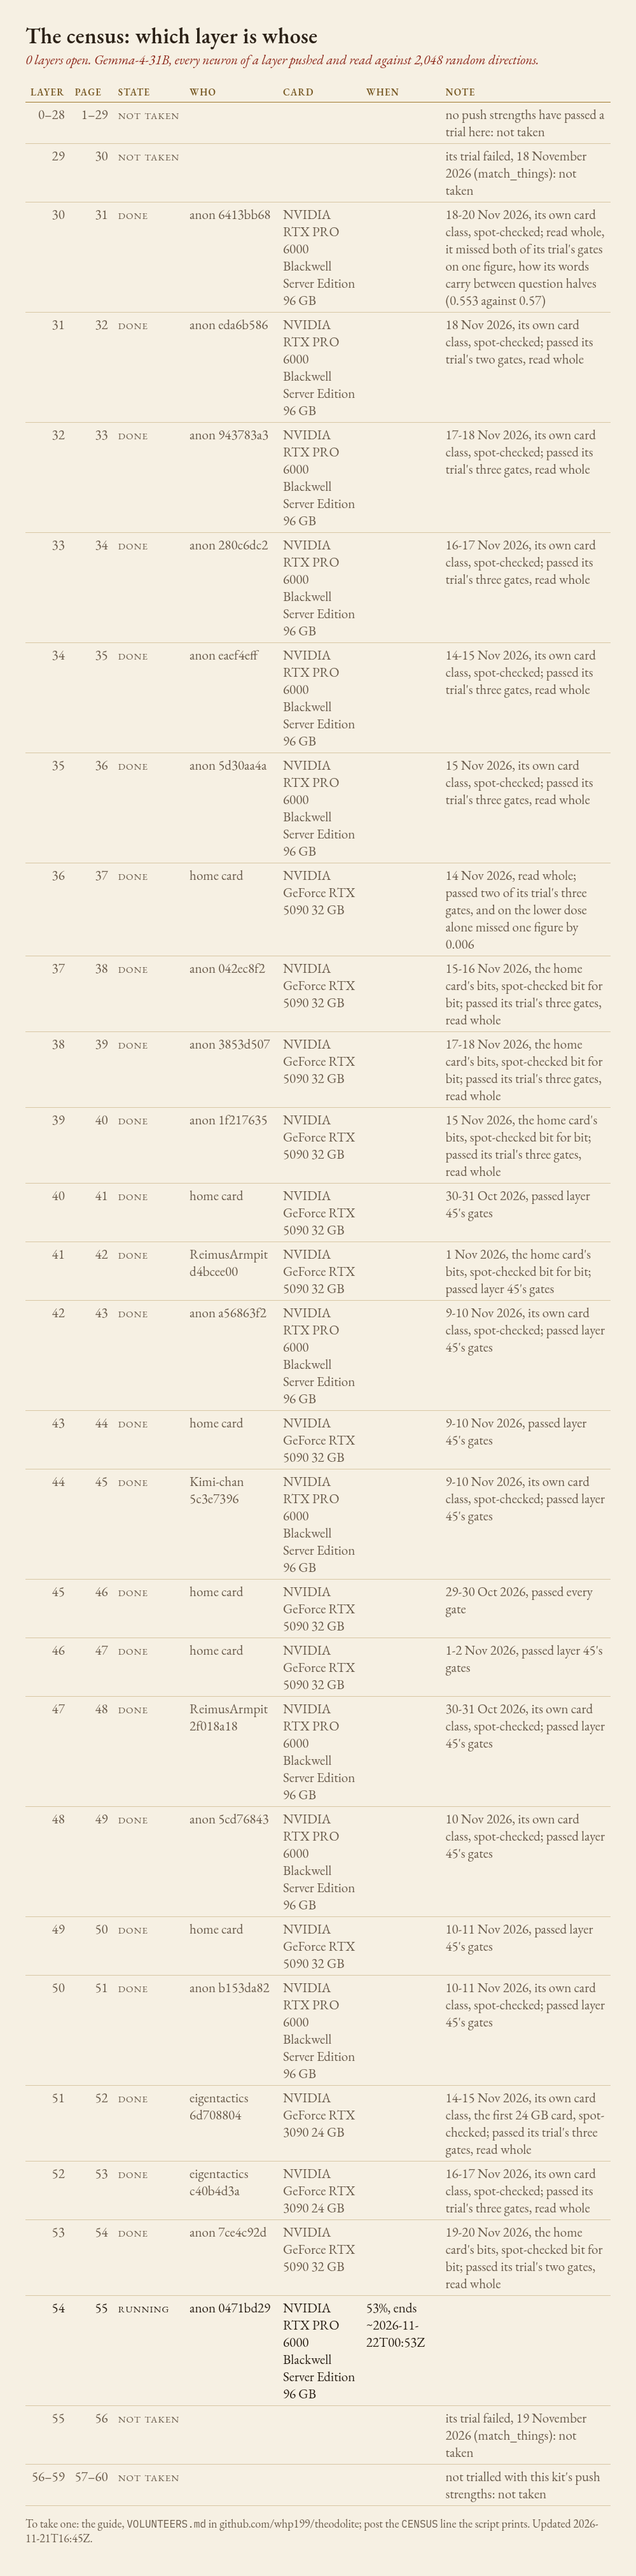
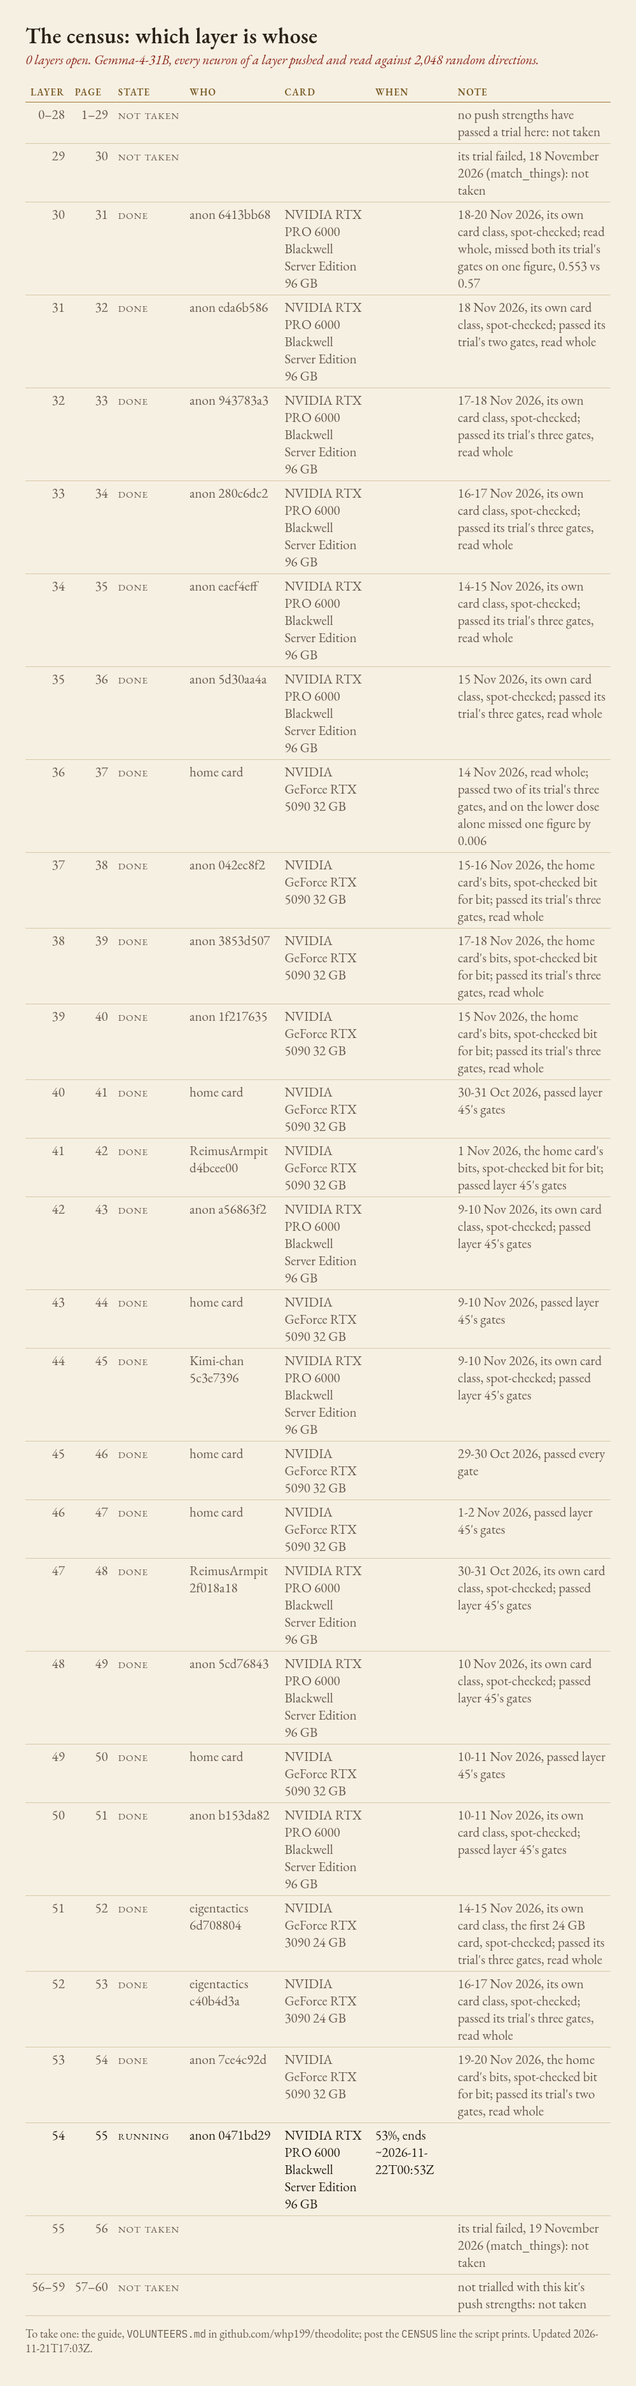
Board: layer 30's note fits the board's 120 characters, its figure kept (0.553 vs 0.57)

diff --git a/volunteers/BOARD.md b/volunteers/BOARD.md
@@ -6,7 +6,7 @@ Kit 7 (census-kit-7). How to take a layer: [VOLUNTEERS.md](https://github.com/wh
 |---:|---:|---|---|---|---|---|
 | 0–28 | 1–29 | not taken |  |  |  | no push strengths have passed a trial here: not taken |
 | 29 | 30 | not taken |  |  |  | its trial failed, 18 November 2026 (match_things): not taken |
-| 30 | 31 | done | anon 6413bb68 | NVIDIA RTX PRO 6000 Blackwell Server Edition 96 GB |  | 18-20 Nov 2026, its own card class, spot-checked; read whole, it missed both of its trial's gates on one figure, how its |
+| 30 | 31 | done | anon 6413bb68 | NVIDIA RTX PRO 6000 Blackwell Server Edition 96 GB |  | 18-20 Nov 2026, its own card class, spot-checked; read whole, missed both its trial's gates on one figure, 0.553 vs 0.57 |
 | 31 | 32 | done | anon eda6b586 | NVIDIA RTX PRO 6000 Blackwell Server Edition 96 GB |  | 18 Nov 2026, its own card class, spot-checked; passed its trial's two gates, read whole |
 | 32 | 33 | done | anon 943783a3 | NVIDIA RTX PRO 6000 Blackwell Server Edition 96 GB |  | 17-18 Nov 2026, its own card class, spot-checked; passed its trial's three gates, read whole |
 | 33 | 34 | done | anon 280c6dc2 | NVIDIA RTX PRO 6000 Blackwell Server Edition 96 GB |  | 16-17 Nov 2026, its own card class, spot-checked; passed its trial's three gates, read whole |
@@ -55,4 +55,4 @@ Judged:
 - L30 anon 6413bb68: accepted (own bits (NVIDIA RTX PRO 6000 Blackwell Server Edition), spot-checked)
 - L53 anon 7ce4c92d: accepted (home bits (NVIDIA GeForce RTX 5090), spot-checked)
 
-Holds: 36 h after RESERVE to START; then the run's end time (from PROGRESS) plus 24 h; at most 10 days in all. Updated 2026-11-21T16:45Z.
+Holds: 36 h after RESERVE to START; then the run's end time (from PROGRESS) plus 24 h; at most 10 days in all. Updated 2026-11-21T17:03Z.
